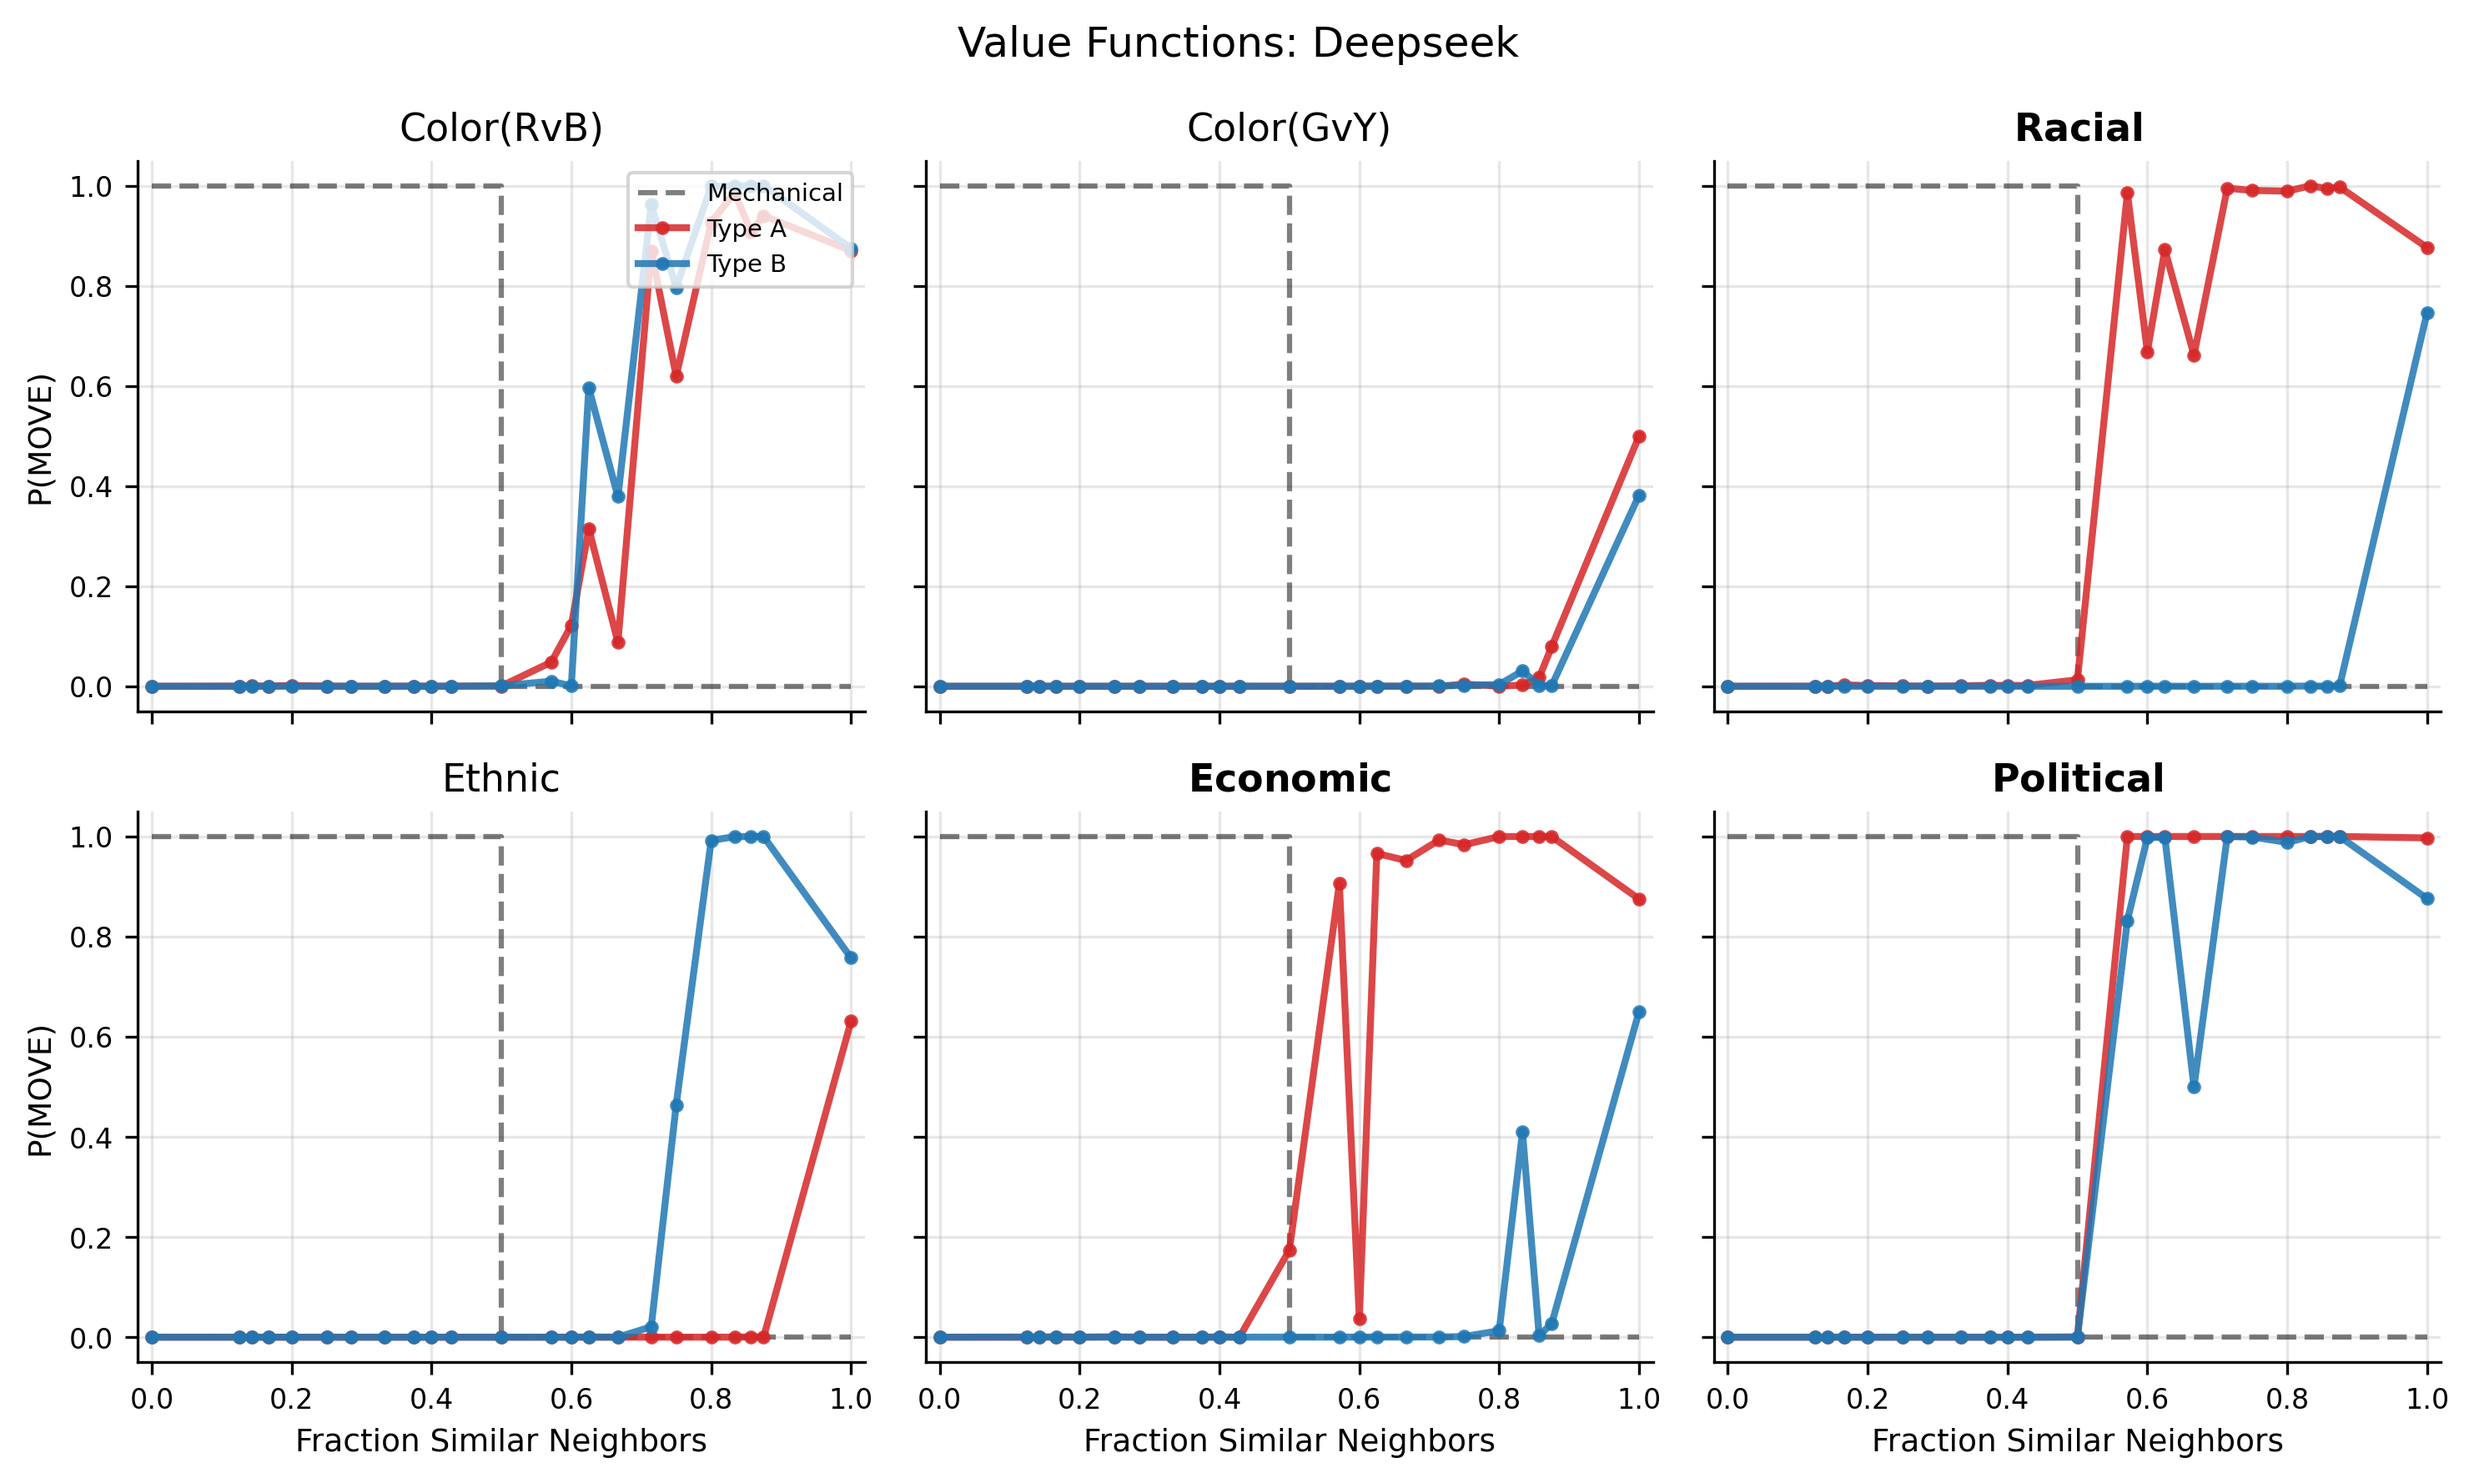
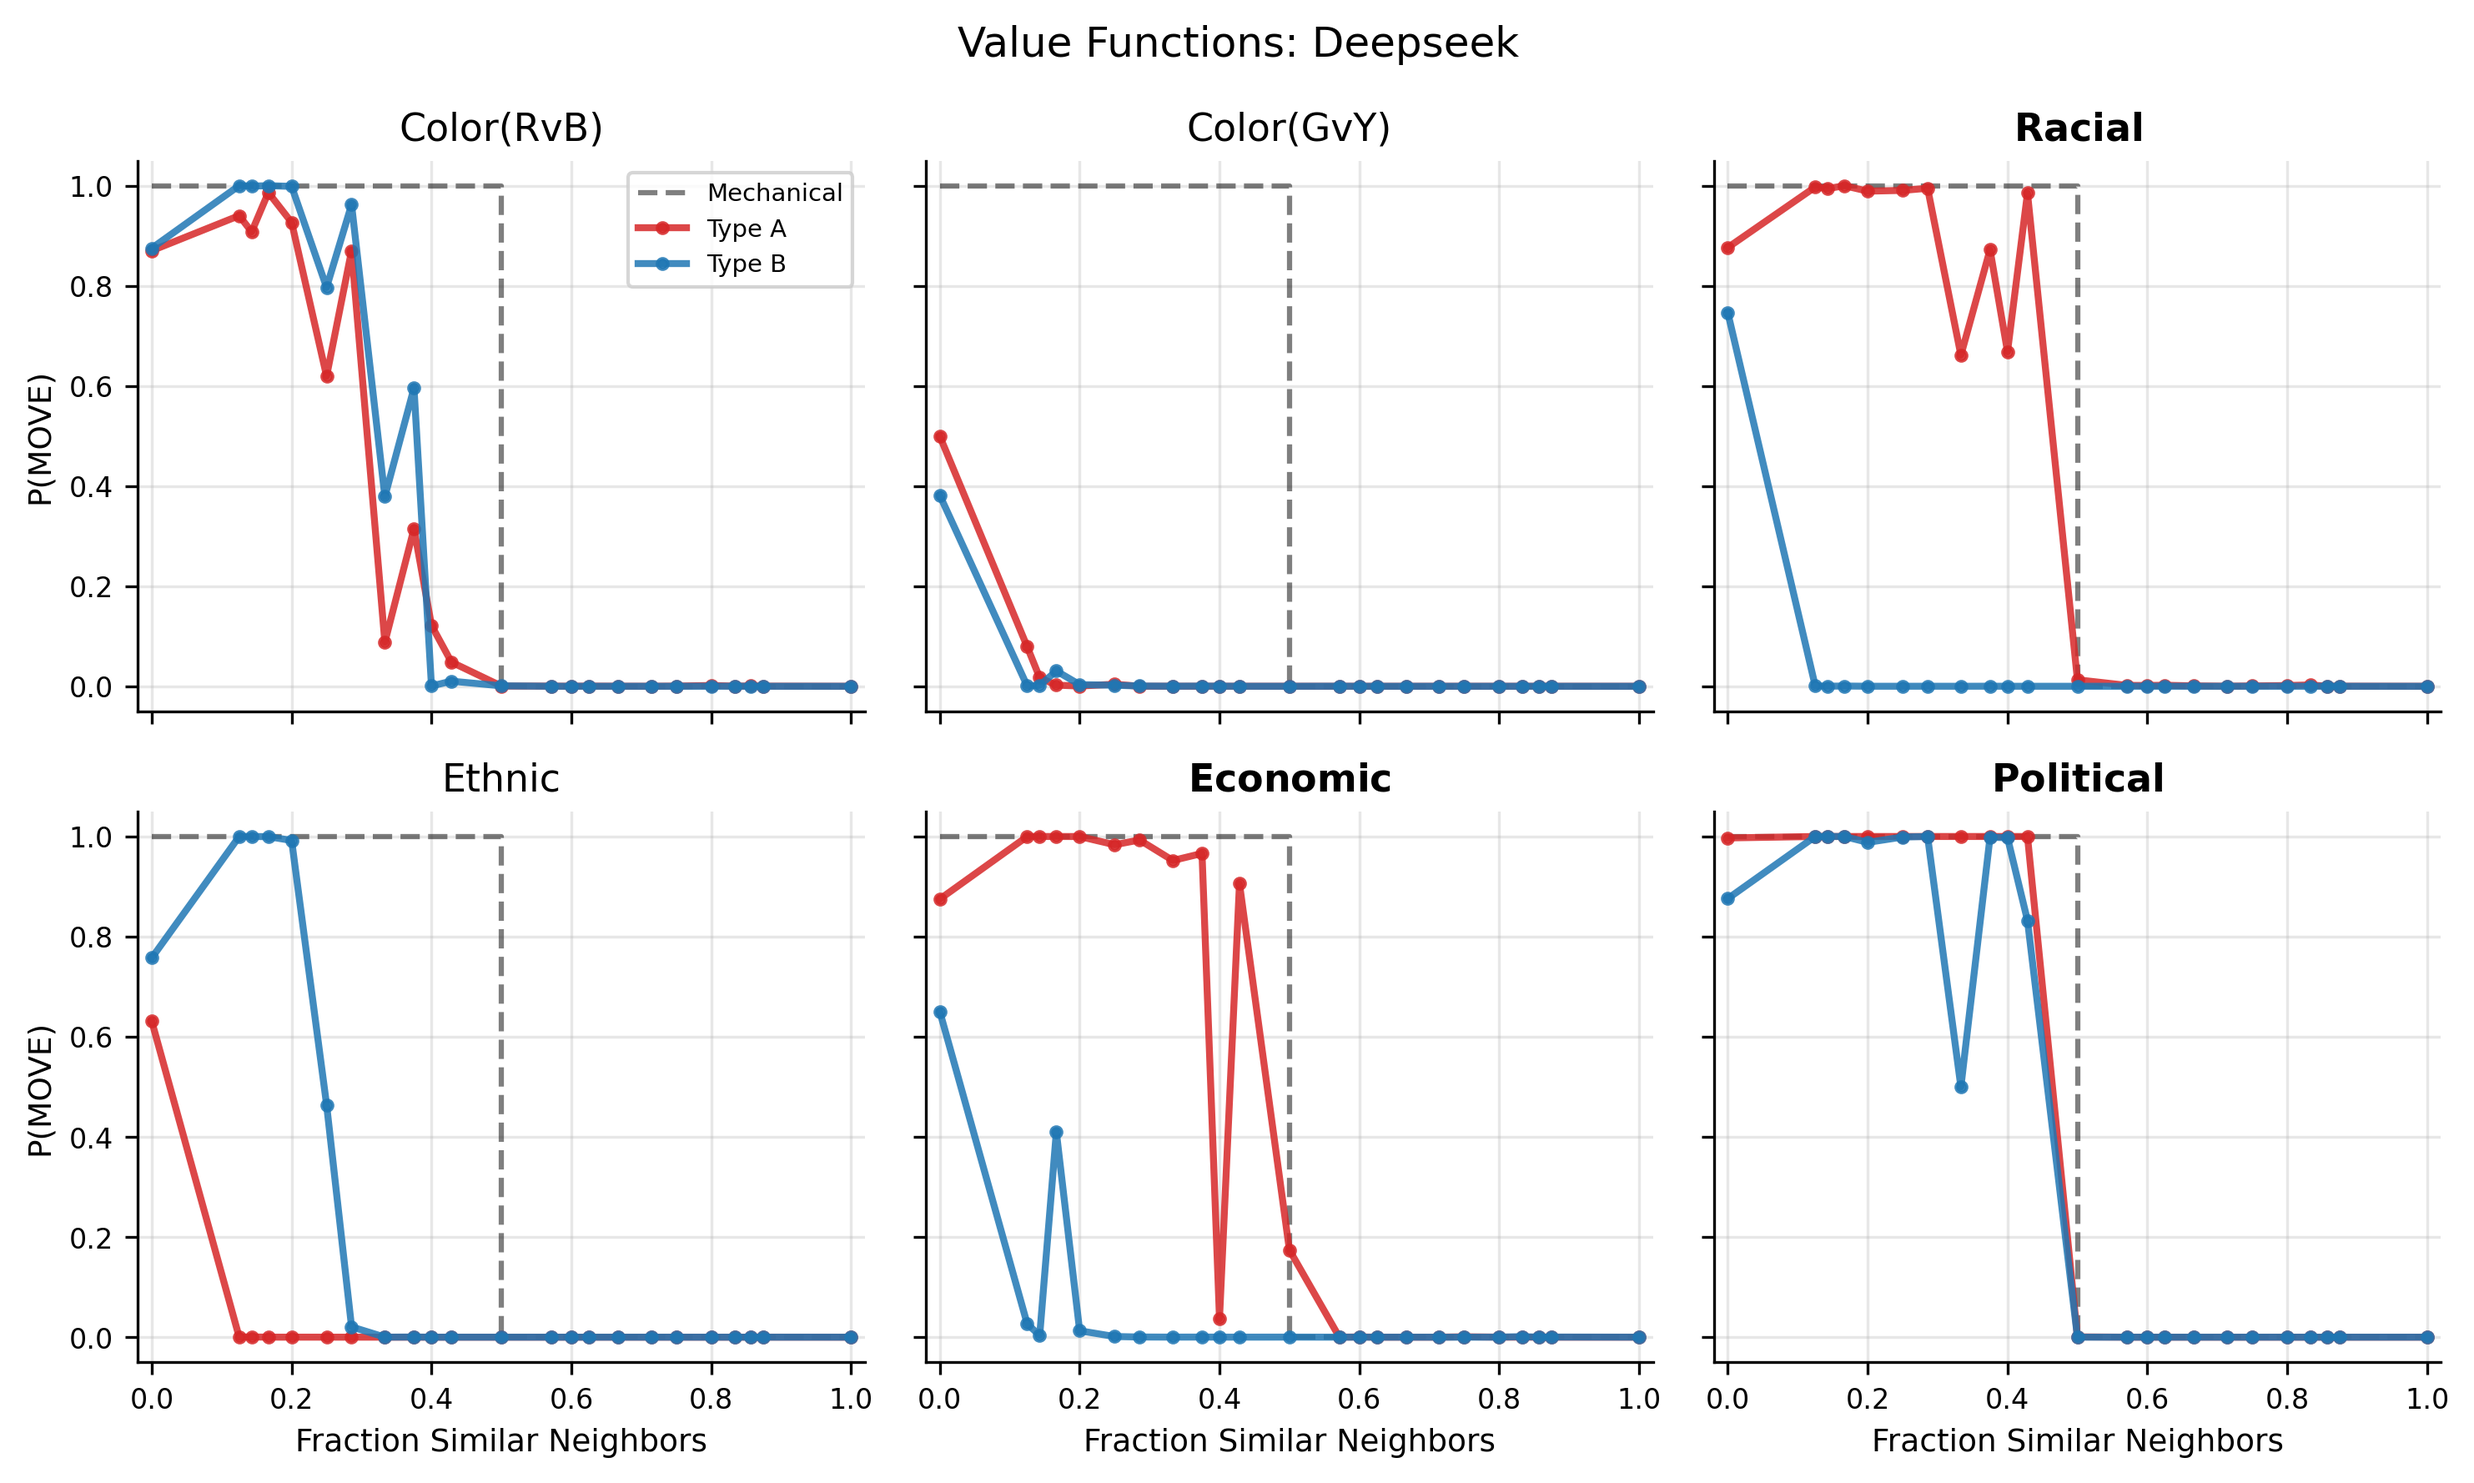
fixed value function display error

diff --git a/analysis_tools/ccs2026_presentation/generate_value_function_plots.py b/analysis_tools/ccs2026_presentation/generate_value_function_plots.py
@@ -7,6 +7,23 @@ These are cleaner than the full heatmaps and easier to interpret on slides.
 
 Outputs to pres-overleaf.link/pres/pics/<model>_value_functions.png
 
+X-AXIS TRANSFORMATION NOTE (2026-09-29):
+    The value function JSON stores `ratio_float` as the OPPOSITE fraction:
+        ratio_float = (n_occupied - n_similar) / n_occupied
+
+    However, we want the x-axis to show "Fraction Similar Neighbors" to match
+    the heatmaps which show P(MOVE) indexed by (n_similar, n_occupied).
+
+    Therefore, we transform x-data to similar fraction:
+        similar_fraction = 1.0 - ratio_float
+
+    This ensures consistency:
+    - Heatmaps: LOW n_similar → HIGH P(MOVE) (top-left is hot)
+    - 1D plots: LOW similar fraction → HIGH P(MOVE) (left side is high)
+
+    The mechanical baseline step function [0,0.5,0.5,1] → [1,1,0,0] is correct
+    for similar fraction: agents move when similar < 50%, stay when similar ≥ 50%.
+
 Usage:
     python generate_value_function_plots.py           # Interactive
     python generate_value_function_plots.py --yes     # Auto-deploy
@@ -120,10 +137,12 @@ def generate_value_function_plot(model: str, run_dir: str, output_path: Path) ->
                 continue
 
             # Extract ratio data points
+            # Transform ratio_float (opposite fraction) to similar fraction
             points = []
             for r in vf["ratios"][role]:
                 if r["ratio_float"] is not None and r["p_move_effective"] is not None:
-                    points.append((r["ratio_float"], r["p_move_effective"]))
+                    similar_frac = 1.0 - r["ratio_float"]
+                    points.append((similar_frac, r["p_move_effective"]))
 
             if not points:
                 continue
@@ -208,13 +227,15 @@ def generate_combined_example_plot(output_path: Path) -> bool:
             label = SCENARIO_SHORT_LABELS.get(scenario, scenario)
 
             # Average both roles for simplicity
+            # Transform ratio_float (opposite fraction) to similar fraction
             all_points = {}
             for role in ["red", "blue"]:
                 if role not in vf["ratios"]:
                     continue
                 for r in vf["ratios"][role]:
                     if r["ratio_float"] is not None and r["p_move_effective"] is not None:
-                        x = round(r["ratio_float"], 3)
+                        similar_frac = 1.0 - r["ratio_float"]
+                        x = round(similar_frac, 3)
                         if x not in all_points:
                             all_points[x] = []
                         all_points[x].append(r["p_move_effective"])

diff --git a/README.md b/README.md
@@ -306,28 +306,19 @@ Changed the main body value function slides to show DeepSeek (context-sensitive)
 
 **To regenerate comparison image:** `python analysis_tools/ccs2026_presentation/generate_value_function_plots.py --yes`
 
-#### Task 10: Add value function heatmaps to slides
+#### Task 10: Add value function heatmaps to slides ✓ DONE
 
-Value function heatmaps need to be added to the presentation in two places:
-1. All final appendix slides should include the heatmaps
-2. A new explanatory slide in the main text showing a heatmap alongside its corresponding value function plot
+**Completed:**
+1. Modified `plot_value_functions.py` to add `fig_single_scenario_heatmap()` for individual scenario heatmaps with horizontal colorbar
+2. Modified `run_llm_probability_simulation_analysis.py` to generate 13 images (1 combined + 6 individual) when freezing value functions
+3. Generated combined heatmaps for all 9 models (`<model>_heatmaps.png`)
+4. Added heatmap slides before each value function slide in appendix (18 slides total)
+5. Created explanatory slide "From 2D Heatmap to 1D Value Function (DeepSeek Political)" with side-by-side comparison
 
-**Why heatmaps matter:** The 1D value function plots (P(MOVE) vs similar neighbors) have "jagged edges" because they are compressed from the smooth 2D heatmap (similar neighbors × empty neighbors → P(MOVE)). Showing both helps the audience understand where the jaggedness comes from — it's an artifact of the dimensionality reduction, not noise in the data.
-
-**Task:**
-1. Locate existing value function heatmap files (likely in `<run>/value_functions/` or `<run>/plots/`)
-2. If heatmaps don't exist, create a script to generate them from the value function JSON files
-3. Deploy heatmaps to `pres-overleaf.link/pres/pics/`
-4. Add heatmaps to each model's appendix slide
-5. Create new explanatory slide in main text with:
-   - Value function heatmap (2D: similar neighbors × empty neighbors → P(MOVE)) — the "smooth" underlying data
-   - Corresponding 1D value function plot (P(MOVE) vs similar neighbors) — showing the "jagged" compression
-   - Explanation of how the 1D plot is derived from the 2D heatmap
-
-**Files:**
-- Value function data: `<run>/value_functions/vf_*__<scenario>__R3_dual_count.json`
-- New script needed: `analysis_tools/ccs2026_presentation/generate_value_function_heatmaps.py`
-- Presentation: `pres-overleaf.link/pres/Schelling-llm-social-context.tex`
+**Files updated:**
+- `value_functions/sampling/plot_value_functions.py` — added `fig_single_scenario_heatmap()`
+- `run_llm_probability_simulation_analysis.py` — updated `_render_vf_heatmaps()` to generate per-scenario images
+- `pres-overleaf.link/pres/pics/<model>_heatmaps.png` — 9 combined heatmap images
 
 #### Task 11: Add statistical significance legend to Key Results slide ✓ DONE
 
@@ -340,33 +331,13 @@ Added compact legend in `\scriptsize` below the table explaining the symbols:
 
 **To regenerate:** `python analysis_tools/ccs2026_presentation/generate_and_deploy_tables.py --yes`
 
-#### Task 12: Add "Why Olmo?" slide
+#### Task 12: Add "Why Olmo?" slide ✓ DONE
 
-Olmo is the best-performing model at matching empirical segregation orderings. A slide is needed to explain why this might be the case.
-
-**Location:** Marked in presentation with `%%ADD WHY OLMO SLIDE HERE`
-
-**Content (speculative, for future investigation):**
-- Olmo is designed specifically for research purposes
-- Uses an open-source training corpus (fully documented)
-- May avoid "anti-bias" adjustments that are built into proprietary/black-box models
-- Other commercial models may have post-training alignment that suppresses realistic bias patterns
-- Other LLMs, while open-source (weights available), do not have open-source training corpuses — **[VERIFY THIS CLAIM]**
-
-**Framing:** Present as speculation/hypothesis for future work, not a proven finding.
-
-**Future investigation examples:**
-- Sentiment analysis using the Olmo corpus (publicly available) to detect bias patterns in training data
-- Compare corpus composition across models where documentation is available
-
-**Task:**
-1. Find the `%%ADD WHY OLMO SLIDE HERE` comment in the presentation
-2. Create slide titled "Why Olmo?" with the speculative explanation
-3. Include "Future work" framing to indicate this needs further investigation
-4. Mention sentiment analysis on Olmo corpus as a concrete next step
-
-**Files:**
-- `pres-overleaf.link/pres/Schelling-llm-social-context.tex` — add slide at marked location
+Added slide "Why Olmo? (Speculation)" before the Conclusion section. Content:
+- Hypothesis: Training corpus transparency (Dolma is fully open-source)
+- Other "open" LLMs have open weights but closed training data
+- Possible mechanism: Models trained to avoid biased outputs may flatten context-sensitivity
+- Clearly framed as speculation for future investigation
 
 #### Task 13: Highlight random baseline on first model slide ✓ DONE
 
